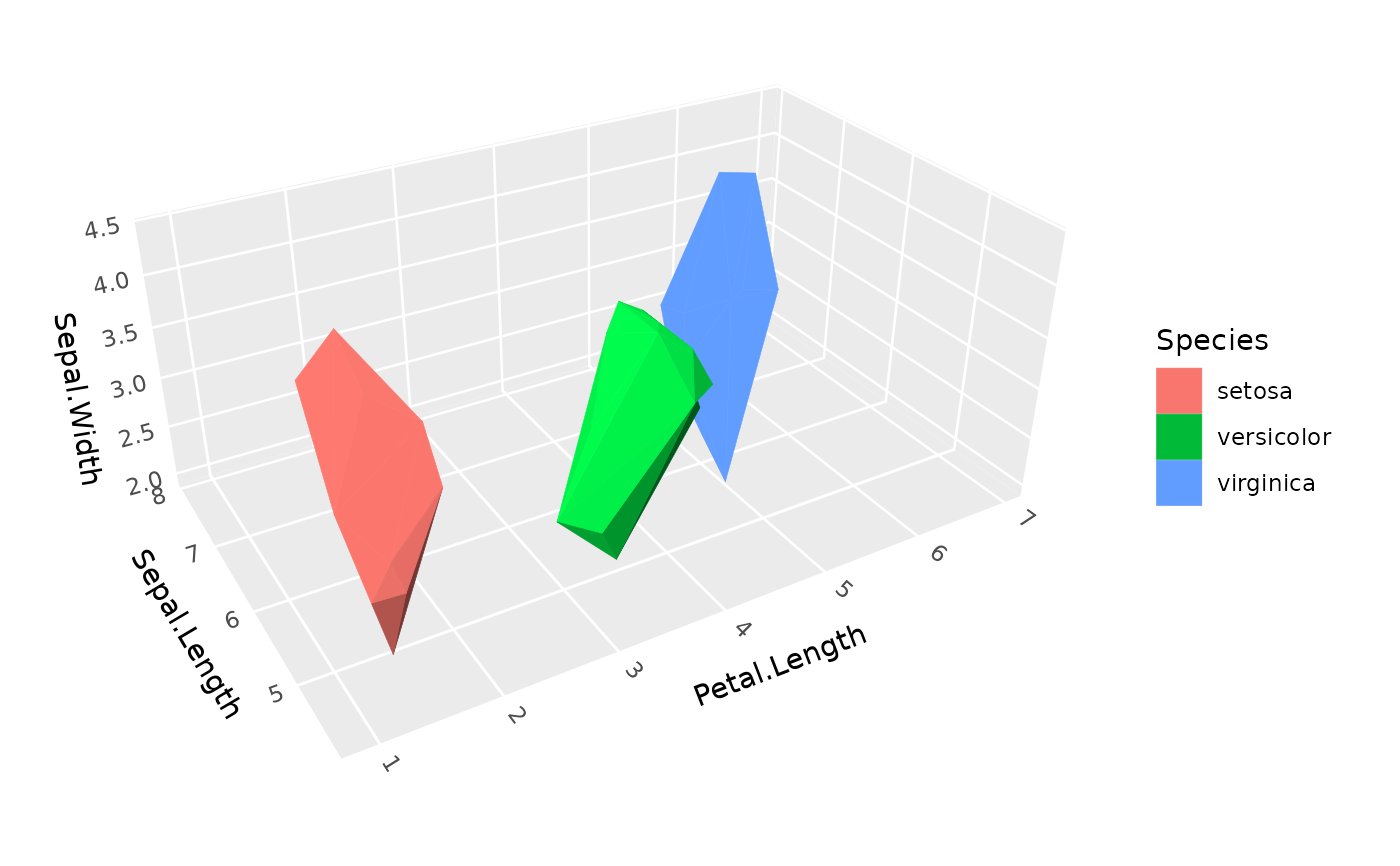
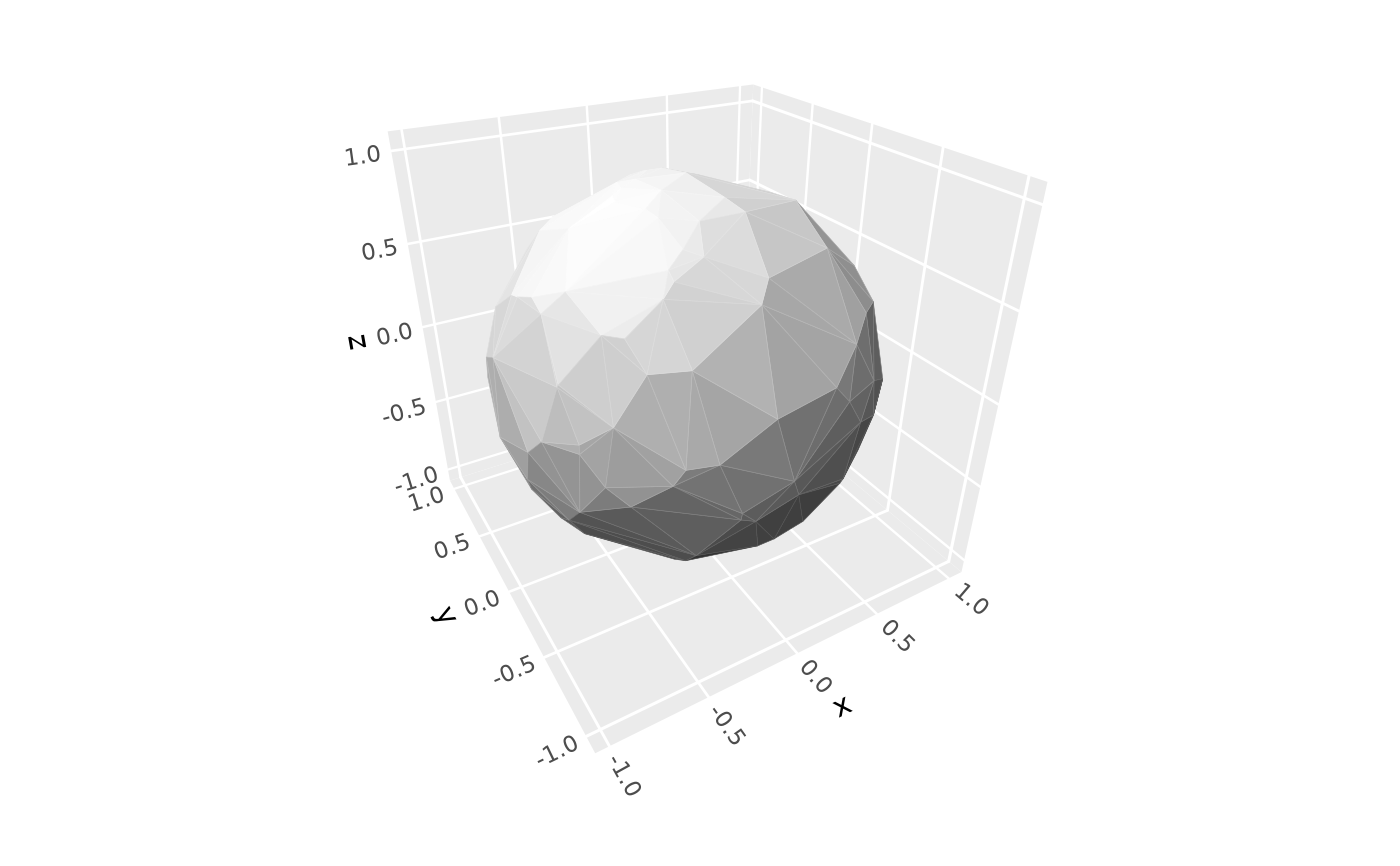
Deploying to gh-pages from @ matthewkling/ggcube@ea9cf1abc793eaa5cf6e97cdaafc84747353a2e2 🚀

diff --git a/reference/geom_hull_3d.html b/reference/geom_hull_3d.html
@@ -205,15 +205,6 @@ default geometry with depth sorting, <code><a href="light.html">light()</a></cod
 <span class="r-in"><span>  <span class="fu"><a href="coord_3d.html">coord_3d</a></span><span class="op">(</span><span class="op">)</span></span></span>
 <span class="r-plt img"><img src="geom_hull_3d-1.png" alt="" width="700" height="433"></span>
 <span class="r-in"><span></span></span>
-<span class="r-in"><span><span class="co"># Alpha shape (for sphere data, gives similar result to convex)</span></span></span>
-<span class="r-in"><span><span class="fu"><a href="https://ggplot2.tidyverse.org/reference/ggplot.html" class="external-link">ggplot</a></span><span class="op">(</span><span class="va">sphere_points</span>, <span class="fu"><a href="aes.html">aes</a></span><span class="op">(</span><span class="va">x</span>, <span class="va">y</span>, <span class="va">z</span><span class="op">)</span><span class="op">)</span> <span class="op">+</span></span></span>
-<span class="r-in"><span>  <span class="fu">geom_hull_3d</span><span class="op">(</span>method <span class="op">=</span> <span class="st">"alpha"</span>, radius <span class="op">=</span> <span class="fl">2</span>, fill <span class="op">=</span> <span class="st">"gray40"</span><span class="op">)</span> <span class="op">+</span></span></span>
-<span class="r-in"><span>  <span class="fu"><a href="coord_3d.html">coord_3d</a></span><span class="op">(</span><span class="op">)</span></span></span>
-<span class="r-wrn co"><span class="r-pr">#&gt;</span> <span class="warning">Warning: </span>RGL: unable to open X11 display</span>
-<span class="r-wrn co"><span class="r-pr">#&gt;</span> <span class="warning">Warning: </span>'rgl.init' failed, will use the null device.</span>
-<span class="r-wrn co"><span class="r-pr">#&gt;</span> See '?rgl.useNULL' for ways to avoid this warning.</span>
-<span class="r-plt img"><img src="geom_hull_3d-2.png" alt="" width="700" height="433"></span>
-<span class="r-in"><span></span></span>
 <span class="r-in"><span><span class="co"># Use `cull_backfaces = FALSE` to render far side of hull</span></span></span>
 <span class="r-in"><span><span class="fu"><a href="https://ggplot2.tidyverse.org/reference/ggplot.html" class="external-link">ggplot</a></span><span class="op">(</span><span class="va">sphere_points</span>, <span class="fu"><a href="aes.html">aes</a></span><span class="op">(</span><span class="va">x</span>, <span class="va">y</span>, <span class="va">z</span><span class="op">)</span><span class="op">)</span> <span class="op">+</span></span></span>
 <span class="r-in"><span>  <span class="fu">geom_hull_3d</span><span class="op">(</span> <span class="co"># default culling for comparison</span></span></span>
@@ -224,15 +215,20 @@ default geometry with depth sorting, <code><a href="light.html">light()</a></cod
 <span class="r-in"><span>    method <span class="op">=</span> <span class="st">"convex"</span>, light <span class="op">=</span> <span class="cn">NULL</span>,</span></span>
 <span class="r-in"><span>    fill <span class="op">=</span> <span class="st">"steelblue"</span>, color <span class="op">=</span> <span class="st">"darkred"</span>, linewidth <span class="op">=</span> <span class="fl">.5</span>, alpha <span class="op">=</span> <span class="fl">.5</span><span class="op">)</span> <span class="op">+</span></span></span>
 <span class="r-in"><span>  <span class="fu"><a href="coord_3d.html">coord_3d</a></span><span class="op">(</span>scales <span class="op">=</span> <span class="st">"fixed"</span><span class="op">)</span></span></span>
-<span class="r-plt img"><img src="geom_hull_3d-3.png" alt="" width="700" height="433"></span>
+<span class="r-plt img"><img src="geom_hull_3d-2.png" alt="" width="700" height="433"></span>
 <span class="r-in"><span></span></span>
 <span class="r-in"><span><span class="co"># Use grouping to build separate hulls for data subsets</span></span></span>
 <span class="r-in"><span><span class="fu"><a href="https://ggplot2.tidyverse.org/reference/ggplot.html" class="external-link">ggplot</a></span><span class="op">(</span><span class="va">iris</span>, <span class="fu"><a href="aes.html">aes</a></span><span class="op">(</span><span class="va">Petal.Length</span>, <span class="va">Sepal.Length</span>, <span class="va">Sepal.Width</span>,</span></span>
 <span class="r-in"><span>                 color <span class="op">=</span> <span class="va">Species</span>, fill <span class="op">=</span> <span class="va">Species</span><span class="op">)</span><span class="op">)</span> <span class="op">+</span></span></span>
 <span class="r-in"><span>      <span class="fu">geom_hull_3d</span><span class="op">(</span><span class="op">)</span> <span class="op">+</span></span></span>
 <span class="r-in"><span>      <span class="fu"><a href="coord_3d.html">coord_3d</a></span><span class="op">(</span>scales <span class="op">=</span> <span class="st">"fixed"</span><span class="op">)</span></span></span>
-<span class="r-plt img"><img src="geom_hull_3d-4.png" alt="" width="700" height="433"></span>
+<span class="r-plt img"><img src="geom_hull_3d-3.png" alt="" width="700" height="433"></span>
 <span class="r-in"><span></span></span>
+<span class="r-in"><span><span class="co"># Alpha shape (for sphere data, gives similar result to convex)</span></span></span>
+<span class="r-in"><span><span class="fu"><a href="https://ggplot2.tidyverse.org/reference/ggplot.html" class="external-link">ggplot</a></span><span class="op">(</span><span class="va">sphere_points</span>, <span class="fu"><a href="aes.html">aes</a></span><span class="op">(</span><span class="va">x</span>, <span class="va">y</span>, <span class="va">z</span><span class="op">)</span><span class="op">)</span> <span class="op">+</span></span></span>
+<span class="r-in"><span>  <span class="fu">geom_hull_3d</span><span class="op">(</span>method <span class="op">=</span> <span class="st">"alpha"</span>, radius <span class="op">=</span> <span class="fl">2</span>, fill <span class="op">=</span> <span class="st">"gray40"</span><span class="op">)</span> <span class="op">+</span></span></span>
+<span class="r-in"><span>  <span class="fu"><a href="coord_3d.html">coord_3d</a></span><span class="op">(</span><span class="op">)</span></span></span>
+<span class="r-plt img"><img src="geom_hull_3d-4.png" alt="" width="700" height="433"></span>
 </code></pre></div>
     </div>
   </main><aside class="col-md-3"><nav id="toc" aria-label="Table of contents"><h2>On this page</h2>

diff --git a/reference/geom_hull_3d.md b/reference/geom_hull_3d.md
@@ -195,15 +195,6 @@ ggplot(sphere_points, aes(x, y, z)) +
   coord_3d()
 
 
-# Alpha shape (for sphere data, gives similar result to convex)
-ggplot(sphere_points, aes(x, y, z)) +
-  geom_hull_3d(method = "alpha", radius = 2, fill = "gray40") +
-  coord_3d()
-#> Warning: RGL: unable to open X11 display
-#> Warning: 'rgl.init' failed, will use the null device.
-#> See '?rgl.useNULL' for ways to avoid this warning.
-
-
 # Use `cull_backfaces = FALSE` to render far side of hull
 ggplot(sphere_points, aes(x, y, z)) +
   geom_hull_3d( # default culling for comparison
@@ -222,4 +213,9 @@ ggplot(iris, aes(Petal.Length, Sepal.Length, Sepal.Width,
       geom_hull_3d() +
       coord_3d(scales = "fixed")
 
+
+# Alpha shape (for sphere data, gives similar result to convex)
+ggplot(sphere_points, aes(x, y, z)) +
+  geom_hull_3d(method = "alpha", radius = 2, fill = "gray40") +
+  coord_3d()
 ```